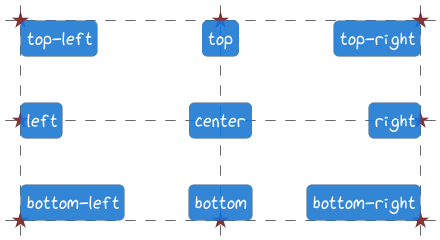
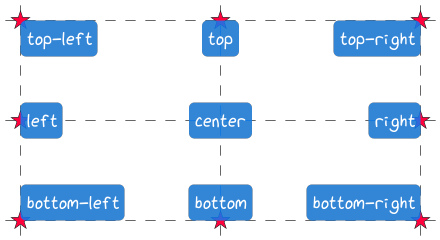
add optional border for markers to improve contrast

diff --git a/include/viren2d/styles.h b/include/viren2d/styles.h
@@ -126,69 +126,79 @@ std::vector<Marker> ListMarkers();
 
 //TODO separate contour and fill color!
 // tricky part: n-grams are currently drawn as a intersecting lines, not the outer contour
-/** How to render a marker/keypoint. */
+/// How to render a marker/keypoint.
 struct MarkerStyle {
-  Marker marker;       ///< Marker type.
-  double size;         ///< Marker size in pixels.
-  double thickness;    ///< Line width (thickness) in pixels.
-  Color color;         ///< Color of the marker's contour or fill (@see `filled`).
-  bool filled;         ///< If true (and the shape allows), the marker will be filled.
-  LineCap cap;    ///< How to render the endpoints.
-  LineJoin join;  ///< How to render the junction of two lines/segments.
+  /// Marker type
+  Marker marker;
+
+  /// Marker size (height) in pixels.
+  double size;
+
+  /// Contour line width in pixels (will be ignored if the marker is filled).
+  double thickness;
+
+  /// Color of the marker's contour or fill.
+  Color color;
+
+  /// If true (and the shape allows), the marker will be filled.
+  bool filled;
+
+  /// If > `thickness`, the marker's contour will be drawn *behind* the
+  /// actual marker using `border_color`. Can be used to improve the
+  /// contrast of the marker.
+  double border_thickness;
+
+  /// Can be used to improve the contrast, see `border_thickness`.
+  Color border_color;
+
+  /// How to render the endpoints.
+  LineCap cap;
+
+  /// How to render the junction of two lines/segments.
+  LineJoin join;
 
 
-  /** Returns a library-wide pre-set default style. */
+  /// Returns a library-wide pre-set default style.
   MarkerStyle();
 
 
-  /**
-   * Constructs a MarkerStyle.
-   *
-   * For non-fillable (circle, cross, etc.) or always-filled (point, etc.),
-   * the value of ``fill`` will be ignored.
-   */
-  MarkerStyle(Marker type, double marker_size, double marker_thickness,
-              const Color &marker_color, bool fill = false,
-              LineCap line_cap = LineCap::Butt,
-              LineJoin line_join = LineJoin::Miter);
+  /// Constructs a custom MarkerStyle.
+  /// For non-fillable (circle, cross, etc.) or always-filled (point, etc.)
+  /// markers, the value of ``fill`` will be ignored.
+  MarkerStyle(
+      Marker type,
+      double marker_size,
+      double thickness_marker,
+      const Color &color_marker,
+      bool fill = false,
+      double thickness_border = 0.0,
+      const Color &color_border = Color::Invalid,
+      LineCap line_cap = LineCap::Butt,
+      LineJoin line_join = LineJoin::Miter);
 
 
-  /**
-   * Constructs the MarkerStyle from the marker's char representation.
-   *
-   * For non-fillable (circle, cross, etc.) or always-filled (point, etc.),
-   * the value of ``fill`` will be ignored.
-   */
-  MarkerStyle(char type, double marker_size, double marker_thickness,
-              const Color &marker_color, bool fill = false,
-              LineCap line_cap = LineCap::Butt,
-              LineJoin line_join = LineJoin::Miter);
-
-
-  /** Returns true if this and the other specify the same text style. */
+  /// Returns true if this and the other specify the same text style.
   bool Equals(const MarkerStyle &other) const;
 
 
-  /** Returns true if this style leads to a renderable marker. */
+  /// Returns true if this style leads to a renderable marker.
   bool IsValid() const;
 
 
-  /**
-   * Returns true if the underlying marker shape should be filled.
-   * Otherwise, only its contour should be rendered.
-   *
-   * Note that the user can choose for some marker shapes if they
-   * should be filled or not, while for some other shapes, the
-   * fill status is pre-determined (e.g. point, circle, cross, ...)
-   */
+  /// Returns true if the underlying marker shape should be filled.
+  /// Otherwise, only its contour should be rendered.
+  ///
+  /// Note that the user can choose for some marker shapes if they
+  /// should be filled or not, while for some other shapes, the
+  /// fill status is pre-determined (e.g. point, circle, cross, ...)
   bool IsFilled() const;
 
 
-  /** Returns a human-readable string representation. */
+  /// Returns a human-readable string representation.
   std::string ToString() const;
 
 
-  /** Overloaded stream operator. */
+  /// Overloaded stream operator.
   friend std::ostream &operator<<(std::ostream &os, const MarkerStyle &style) {
     os << style.ToString();
     return os;
@@ -243,11 +253,6 @@ struct LineStyle {
 
   /// Creates a library-wide pre-set default style.
   LineStyle();
-
-
-  /// Creates either the default style `{}`, or
-  /// the default style with custom `{width}`.
-  LineStyle(std::initializer_list<double> values);
 
 
   /// Standard constructor.

diff --git a/src/bindings/bindings_styles.cpp b/src/bindings/bindings_styles.cpp
@@ -313,11 +313,13 @@ MarkerStyle MarkerStyleFromTuple(py::tuple tpl) {
 /// either enum or char/string representation.
 MarkerStyle CreateMarkerStyle(
     const py::object &marker, double size, double thickness, const Color &color,
-    bool fill, const py::object &cap, const py::object &join) {
+    bool fill, double border_thickness, const Color &border_color,
+    const py::object &cap, const py::object &join) {
   Marker m = MarkerFromPyObject(marker);
   LineCap c = LineCapFromPyObject(cap);
   LineJoin j = LineJoinFromPyObject(join);
-  return MarkerStyle(m, size, thickness, color, fill, c, j);
+  return MarkerStyle(
+        m, size, thickness, color, fill, border_thickness, border_color, c, j);
 }
 
 
@@ -350,6 +352,11 @@ void RegisterMarkerStyle(pybind11::module &m) {
           contour or filling.
         filled: If ``True`` (and the shape allwos), the marker
           will be filled.
+        border_thickness: Line with of the optional border as :class:`float`.
+          If a valid ``border_color`` is provided, the marker's contour will be
+          drawn *behind* the actual marker. Can be used to improve the contrast.
+        border_color: The :class:`~viren2d.Color` to improve the contrast,
+          see ``border_thickness``.
         cap: A :class:`~viren2d.LineCap` enum, specifying
           how to render the line endpoints. This parameter
           can also be set via the corresponding string
@@ -366,6 +373,8 @@ void RegisterMarkerStyle(pybind11::module &m) {
             py::arg("thickness") = default_style.thickness,
             py::arg("color") = default_style.color,
             py::arg("filled") = default_style.filled,
+            py::arg("border_thickness") = default_style.border_thickness,
+            py::arg("border_color") = default_style.border_color,
             py::arg("cap") = default_style.cap,
             py::arg("join") = default_style.join);
 
@@ -430,17 +439,36 @@ void RegisterMarkerStyle(pybind11::module &m) {
         "filled (*e.g.* ``'.'``). For these shapes, the value\n"
         "of :attr:`filled` will be ignored.");
 
-  doc = ":class:`~viren2d.LineCap`: "
-        "How to render the endpoints of the marker's contour.\n\n"
-        "In addition to the enum values, you can use\n"
-        "the corresponding string representation to set this member:\n\n"
-        ">>> style.cap = viren2d.LineCap.Round\n"
-        ">>> style.cap = 'round'\n";
-  style.def_property("cap",
+  style.def_readwrite(
+        "border_thickness",
+        &MarkerStyle::border_thickness, R"docstr(
+        :class:`float`: Line with of the optional border. If
+          :attr:`border_color` is a valid color, the marker's contour will be
+          drawn *behind* the actual marker. Can be used to improve the contrast.
+        )docstr");
+
+  style.def_readwrite(
+        "border_color",
+        &MarkerStyle::border_color, R"docstr(
+        :class:`~viren2d.Color`: Can be used to improve the contrast,
+          see :attr:`border_thickness`.
+        )docstr");
+
+  style.def_property(
+        "cap",
         [](MarkerStyle &s) { return s.cap; },
         [](MarkerStyle &s, py::object o) {
             s.cap = LineCapFromPyObject(o);
-        }, doc.c_str());
+        }, R"docstr(
+        :class:`~viren2d.LineCap`: How to render the endpoints of the marker's
+          contour.
+
+          In addition to the enum values, you can use the corresponding string
+          representation to set this member:
+
+          >>> style.cap = viren2d.LineCap.Round
+          >>> style.cap = 'round'
+        )docstr");
 
 
   doc = ":class:`~viren2d.LineJoin`: "

diff --git a/src/styles.cpp b/src/styles.cpp
@@ -302,28 +302,27 @@ MarkerStyle::MarkerStyle()
     size(10.0), thickness(3.0),
     color(NamedColor::Azure),
     filled(helpers::AdjustMarkerFill(marker, false)),
+    border_thickness(0),
+    border_color(Color::Invalid),
     cap(LineCap::Butt),
     join(LineJoin::Miter)
 {}
 
 
-MarkerStyle::MarkerStyle(Marker type, double marker_size, double marker_thickness,
-                         const Color &marker_color, bool fill,
-                         viren2d::LineCap line_cap, viren2d::LineJoin line_join)
+MarkerStyle::MarkerStyle(
+    Marker type, double marker_size, double thickness_marker,
+    const Color &color_marker, bool fill, double thickness_border,
+    const Color &color_border, viren2d::LineCap line_cap,
+    viren2d::LineJoin line_join)
   : marker(type),
     size(marker_size),
-    thickness(marker_thickness),
-    color(marker_color),
+    thickness(thickness_marker),
+    color(color_marker),
     filled(helpers::AdjustMarkerFill(type, fill)),
-    cap(line_cap), join(line_join)
-{}
-
-
-MarkerStyle::MarkerStyle(char type, double marker_size, double marker_thickness,
-                         const Color &marker_color, bool fill,
-                         LineCap line_cap, LineJoin line_join)
-  : MarkerStyle(MarkerFromChar(type), marker_size, marker_thickness,
-                marker_color, fill, line_cap, line_join)
+    border_thickness(thickness_border),
+    border_color(color_border),
+    cap(line_cap),
+    join(line_join)
 {}
 
 
@@ -405,20 +404,6 @@ LineStyle::LineStyle()
     join(LineJoin::Miter)
 {}
 
-//FIXME remove!
-LineStyle::LineStyle(std::initializer_list<double> values) {
-  if (values.size() < 2) {
-    *this = LineStyle();
-    if (values.size() > 0) {
-      width = values.begin()[0];
-    }
-  } else {
-    std::ostringstream s;
-    s << "LineStyle c'tor requires 0, or 1 elements in initializer_list, "
-      << "but got " << values.size() << ".";
-    throw std::invalid_argument(s.str());
-  }
-}
 
 LineStyle::LineStyle(
     double width, const Color &col,

diff --git a/examples/rtd-examples-python/render_rtd_images.py b/examples/rtd-examples-python/render_rtd_images.py
@@ -9,11 +9,11 @@ from rtd_demo_images import *
 def _process_result(
         img: np.ndarray,
         show_image: bool,
-        title: str,
+        title: str,  # currently ignored
         save_image: bool,
         filename: str) -> None:
     if show_image:
-        imvis.imshow(img, title, wait_ms=-1)#100)
+        imvis.imshow(img, wait_ms=-1)#100) # ignore the title
     if save_image:
         output_folder = Path(__file__).absolute().parents[2] / 'docs' / 'source' / 'images'
         imutils.imsave(output_folder / filename, img)
@@ -102,19 +102,19 @@ def render_rtd_cheatsheets(show_images: bool, save_images: bool):
     # LineStyle
     img = cheat_sheet_linestyle()
     _process_result(
-        img, True, 'Line Style Cheat Sheet', True, 'line-style-cheat-sheet.png')
+        img, show_images, 'Line Style Cheat Sheet', save_images, 'line-style-cheat-sheet.png')
 
     # LineStyle
     img = cheat_sheet_arrowstyle()
     _process_result(
-        img, True, 'Arrow Style Cheat Sheet', True, 'arrow-style-cheat-sheet.png')
+        img, show_images, 'Arrow Style Cheat Sheet', save_images, 'arrow-style-cheat-sheet.png')
 
     # Colormaps
     img = cheat_sheet_colormaps()
     _process_result(
-        img, True, 'Colormaps Cheat Sheet', True, 'colormaps-cheat-sheet.png')
+        img, show_images, 'Colormaps Cheat Sheet', save_images, 'colormaps-cheat-sheet.png')
 
 
 if __name__ == '__main__':
-    render_rtd_demos(True, False)
+    render_rtd_demos(True, True)
     render_rtd_cheatsheets(True, False)#FIXME

diff --git a/examples/rtd-examples-python/rtd_demo_images/markers.py b/examples/rtd-examples-python/rtd_demo_images/markers.py
@@ -1,7 +1,7 @@
 import numpy as np
 import viren2d
 
-
+#TODO switch to painter.canvas; rename (this creates a cheatsheat)
 def demo_markers():
     # Set up empty canvas:
     painter = viren2d.Painter()
@@ -11,7 +11,7 @@ def demo_markers():
     # Style specifications:
     text_style = viren2d.TextStyle(color=viren2d.RGBa(192, 186, 177))
     marker_style = viren2d.MarkerStyle(
-        size=25, thickness=2, color='azure!80')
+        size=25, thickness=2, color='azure!90')
 
     def prepare_display_row(y1, y2, y3):
         text_style.family = 'xkcd'

diff --git a/src/helpers/drawing_helpers_primitives.cpp b/src/helpers/drawing_helpers_primitives.cpp
@@ -610,10 +610,11 @@ void DrawMarker(
       }
   }
 
-  //TODO - if bg!
-  if (true) {
-    LineStyle contour_style(10, "red");
-    ApplyLineStyle(context, contour_style);
+  // Optionally draw the contour with a different color in the back to
+  // improve the contrast.
+  if (style.border_color.IsValid()) {
+    ApplyLineStyle(
+          context, LineStyle(style.border_thickness, style.border_color));
     cairo_stroke_preserve(context);
     ApplyMarkerStyle(context, style);
   }

diff --git a/examples/demo-cpp/demo_utils/demos_text.cpp b/examples/demo-cpp/demo_utils/demos_text.cpp
@@ -47,7 +47,7 @@ void DemoText() {
 
       pos.SetY(100.0 + idx_anchor * 50.0);
       //painter->DrawCircle(pos, 5, LineStyle::Invalid, "black!40");
-      painter->DrawMarker(pos, MarkerStyle('9', 30, 1, "crimson!90", false));
+      painter->DrawMarker(pos, MarkerStyle(Marker::Pentagram, 30, 1, "crimson!90", false));
       if (idx_family == 0) {
         // Just draw the text
         painter->DrawText({txt.str()}, pos, AnchorFromString(anchors[idx_anchor]),

diff --git a/examples/rtd-examples-python/rtd_demo_images/positioning.py b/examples/rtd-examples-python/rtd_demo_images/positioning.py
@@ -18,8 +18,8 @@ def demo_text_anchors():
         width=1, dash_pattern=[10, 10], color=(0.4, 0.4, 0.4))
 
     marker_style = viren2d.MarkerStyle(
-        viren2d.Marker.Pentagram, size=18, thickness=1,
-        filled=True, color='maroon!80')
+        viren2d.Marker.Pentagram, size=18, thickness=1, filled=True,
+        color='rose-red', border_thickness=1, border_color=viren2d.RGBa(26, 28, 29))
 
     # Draw a grid
     offset_x = 20
